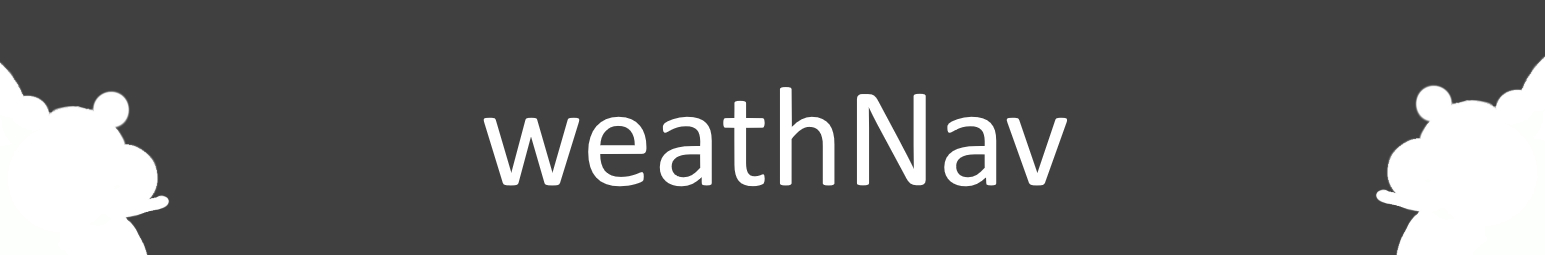
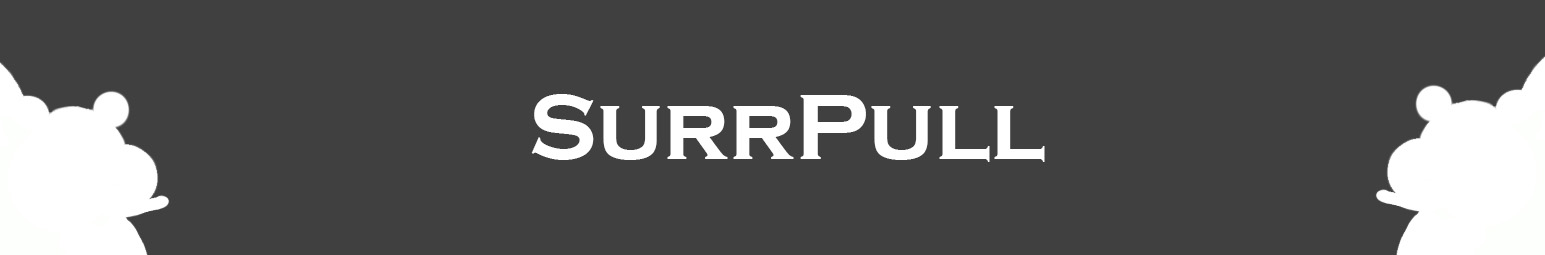
Final/Close to final checkpoint

Changed region(s): [[0.3107, 0.3294, 0.7146, 0.7412]]

diff --git a/index.html b/index.html
@@ -2,7 +2,9 @@
 <html lang="en">
 <head>
 <meta charset="utf-8"/>
-    <title>SurrGrab</title>
+    <title>SurrPull</title>
+    <!--Favicon icon for the website-->
+    <link rel="shortcut icon" href="assets/favicon.ico" > 
     <style>
         *{
             margin:0;
@@ -22,6 +24,7 @@
         #mapBord{
             padding:60px;
         }
+        /*Css for the go to top button*/
         #scroll_to_top{
             display:none;
             position:fixed;
@@ -37,9 +40,11 @@
             padding:15px;
             border-radius:4px;
         }
+        /*Make the colour of the button become brighter when hovering on it*/
         #scroll_to_top:hover{
             background-color:#2fff9e;
         }
+        /*css for all paragraphs*/
         p{
             border-style: solid;
             border-color:rgb(87, 87, 87);
@@ -52,6 +57,7 @@
             width:500px;
             text-align:center;
         }
+        /*css for the header of the webpage specifically the banner*/
         .header{
             border-style: solid;
             border-color:rgb(48, 48, 48);
@@ -61,11 +67,12 @@
             background-size: cover;
             background-image: url("Assets/weathNav-Banner.jpg")
         }
+        /*Css for the find current location button in the google maps api*/
         .custom-map-control-button {
             appearance: button;
             background-color: #fff;
             border: 0;
-            border-radius: 2px;
+            border-radius: 1px;
             box-shadow: 0 1px 4px -1px rgba(0, 0, 0, 0.3);
             cursor: pointer;
             margin: 10px;
@@ -74,8 +81,27 @@
             font: 400 18px Roboto, Arial, sans-serif;
             overflow: hidden;
         }
+        /*Light up button when hovering on it*/
         .custom-map-control-button:hover {
             background: #ebebeb;
+        }
+        /*Footer css*/
+        .footer_msg{
+            color:grey;
+            display:block;
+            margin: 0 auto;
+            padding-top:100px;
+            height:70px;
+            text-align:center;
+        }
+        /*css for all the h3 elements in the website*/
+        h3{
+            color:rgb(63, 63, 63);
+            display:block;
+            margin: 0 auto;
+            padding-top:40px;
+            height:20px;
+            text-align:center;
         }
     </style>
 </head>
@@ -86,30 +112,60 @@
 </div>
 
 <!--User's current location based on google maps-->
-<h4 id='puserMessage'></h4><div style="padding:5px;"></div>
+<h3 id='puserMessage'>「　What fine weather we have today! A great day to carry out plans.　」</h3><div style="padding:5px;"></div>
 <div id="mapBord">
 <div id="map">
 </div>
 </div>
-<div>
+<div style="padding-bottom:50px;">
+    <!--Displaying all the relavant information extracted from the apis-->
     <p id='puserIp'></p><div style="padding:5px;"></div>
+
     <p id="puserCity"></p><div style="padding:5px;"></div>
+
     <p id="puserCountry"></p><div style="padding:5px;"></div>
+
+    <p id="puserCountryCode"></p><div style="padding:5px;"></div>
+
+    <p id='puserContinent'></p><div style="padding:5px;"></div>
+
     <p id="puserPostalSector"></p><div style="padding:5px;"></div>
+
     <p id="puserInEu"></p><div style="padding:5px;"></div>
+
     <p id="puserLatLng"></p><div style="padding:5px;"></div>
+
     <p id="puserTimeZone"></p><div style="padding:5px;"></div>
+
     <p id="puserCallCode"></p><div style="padding:5px;"></div>
+
     <p id="puserCurrency"></p><div style="padding:5px;"></div>
+
     <p id="puserAsn"></p><div style="padding:5px;"></div>
+
     <p id="puserOrg"></p><div style="padding:5px;"></div>
+
+    <p id="puserTemp"></p><div style="padding:5px;"></div>
+
+    <p id="puserHumid"></p><div style="padding:5px;"></div>
+
+    <p id="puserPressure"></p><div style="padding:5px;"></div>
+
+    <p id="puserWind"></p><div style="padding:5px;"></div>
+
+    <p id="puserCloud"></p><div style="padding:5px;"></div>
 </div>
 
 <script src="script.js"></script>
 <script src="https://cdnjs.cloudflare.com/ajax/libs/jquery/3.2.1/jquery.min.js"></script>
-<script async defer src="https://maps.googleapis.com/maps/api/js?key=AIzaSyDlX_PX16ocYu6RE3EbTTGKFwTtW7xCSmQ&callback=initMap"></script></script>
+<script async defer src="https://maps.googleapis.com/maps/api/js?key=AIzaSyDlX_PX16ocYu6RE3EbTTGKFwTtW7xCSmQ&callback=initMap"></script>
 <!--Scroll to top button-->
 <button onclick="topFunction()" id="scroll_to_top" title="Go to top">Up</button>
+
+<!--Footer-->
+<div class="footer" style="background-color:#1e1d22;">
+    <h5 class="footer_msg" style="text-align:center;">ID Assignment 2<br>Surroundings Checker Site By Daryl Chong Teck Yuan<br>2021</h5>
+</div>
 
 <script>
     //When user scrolls down, show button

diff --git a/script.js b/script.js
@@ -1,5 +1,4 @@
 var weather;
-let weatherArray = [];
 
 //Code to display google map
 function initMap(){
@@ -8,6 +7,7 @@ function initMap(){
     fetch('https://api.ipify.org/?format=json')
 	.then(results => results.json())
 	.then(data => {
+        //Code to pull relavant information and the append it to a pre-made empty paragraph
         let yo = data.ip;
         $("#puserIp").append("Ipv4 Address: " + yo);
         $(document).ready(function yyyy() {
@@ -15,8 +15,13 @@ function initMap(){
         console.log(data);
         let userCity = data.city;
         $("#puserCity").append("City: " + userCity);
+        let userCountryCode = data.country_code;
+        $("#puserCountryCode").append("Country Code: " + userCountryCode);
         let userCountry = data.country_name;
-        $("#puserCountry").append("Country: " + userCountry);
+        //Making use of another api called countryflags to display a flag with and according to the user's country
+        $("#puserCountry").append("Country: " + userCountry + ' <img src="https://www.countryflags.io/' + userCountryCode + '/flat/24.png">');
+        let userContinent = data.continent_code;
+        $("#puserContinent").append("Continent code: " + userContinent);
         let userPostalSector = data.postal;
         $("#puserPostalSector").append("Postal sector: " + userPostalSector);
         let userInEu = data.in_eu;
@@ -49,7 +54,7 @@ function initMap(){
     //Code to show the user's current location referenced from google maps api
     infoWindow = new google.maps.InfoWindow();
   const locationButton = document.createElement("button");
-  locationButton.textContent = "Pan to Current Location";
+  locationButton.textContent = "Focus on Current Location";
   locationButton.classList.add("custom-map-control-button");
   map.controls[google.maps.ControlPosition.TOP_CENTER].push(locationButton);
   locationButton.addEventListener("click", () => {
@@ -83,20 +88,34 @@ function handleLocationError(browserHasGeolocation, infoWindow, pos) {
   infoWindow.setPosition(pos);
   infoWindow.setContent(
     browserHasGeolocation
-      ? "Error: The Geolocation service failed."
-      : "Error: Your browser doesn't support geolocation."
+      ? "Error: Unfortunately The Geolocation service failed."
+      : "Error: It Seems Your browser doesn't support geolocation."
   );
 }
 //Changes the background color depending if the current temperature is under 25 degrees or over 32 degrees celcius
 function openWeatherdata(data){
   weather = data;
   console.log(weather);
+  let userTemp = weather.main.temp;
+  let userTempFeel = weather.main.feels_like;
+        $("#puserTemp").append("Temperature (Feels Like): " + userTemp + "°C (" + userTempFeel + "°C)");
+  let userHumid = weather.main.humidity;
+        $("#puserHumid").append("Humidity: " + userHumid + "%");
+  let userPressure = weather.main.pressure;
+        $("#puserPressure").append("Sea Level Atmospheric Pressure: " + userPressure + "hPa");
+  let userWindSpeed = weather.wind.speed;
+  let userWindDir = weather.wind.deg;
+        $("#puserWind").append("Wind: " + userWindSpeed + "m/s N " + "(" + userWindDir + "°)");
+  let userCloud = weather.clouds.all;
+        $("#puserCloud").append("Cloudiness: " + userCloud + "%");
   if (weather.main.temp < 25){
       document.body.style.backgroundColor = '#36e2f5';
       document.getElementById("scroll_to_top").style.backgroundColor = '#007c92';
+      $("#puserMessage").replaceWith("<h3>「　It's cold today. Be sure to keep yourself warm so to not fall sick!　」</h3>");
   }
   else if (weather.main.temp > 32){
       document.body.style.backgroundColor = '#f53636';
       document.getElementById("scroll_to_top").style.backgroundColor = '#920000';
+      $("#puserMessage").replaceWith("<h3>「　Uuwah! It's so hot outside. Be sure to keep yourself in the shade and drink plenty of water!　」</h3>");
   }
 }

diff --git a/README.md b/README.md
@@ -1,9 +1,9 @@
-# Surrounding Checker
+# SurrPull (Surroundings Puller)
 A webpage to check the user's surroundings like temperature, latitude etc including their current location based on their ip adress location.
 
 ## Design process
 
-This website is specifically targetted for people that want to know their surrounding information, like their ipv4 address, temperature, latitude, longitude without having to scour the web for different websites each targetted for a certain purpose. This website will help make it more convenient and more straightforward.
+This website is specifically targetted for people that want to know their surrounding information, like their ipv4 address, temperature, latitude, longitude without having to scour the web for different websites each targetted for a certain purpose. This website will help make it more convenient and more straightforward. It even includes a map that shows the user their actual surroundings and a semi-smart background that changes depending on certain conditions.
 
 ## Features
 
@@ -15,13 +15,37 @@ This website is specifically targetted for people that want to know their surrou
 
 - Uses the data pulled from ipify to use the ipapi api to get more relavant information such as latitude and lonitude of the user's location which will then be inputted into the google maps api so that it can center on the user's location.
 
+- Background will change colour depending on the user's surrounding temperature. If let's say the temperature is below 25 degrees (Celcius) the colour of the background will change from the original green to then light blue. With the opposite changing the colour to a non-blinding red. This also changes the colour of the move to top button in the bottom right corner.
+
+- A flag in the tex-box containing the user's current country. Showing the Singaporean flag if the user currently resides in Singapore while using the device.
+
+- A message box at the top of the webpage, just below the banner that changes depending on the user's surrounding weather conditions.
+
+- A favicon
+
 ## Features left to implement
 
-- More data about the user's location such as temperature
+- ~~More data about the user's location such as temperature~~
 
-- Colours of the background will change from green to red if the user's location is hotter than a certain temperature and blue if it's cooler than a certain predetermined temperature.
+- ~~Colours of the background will change from green to red if the user's location is hotter than a certain temperature and blue if it's cooler than a certain predetermined temperature.~~
 
-- General final design
+- ~~General final design~~
+
+- ~~Message box~~
+
+- ~~A footer~~
+
+- ~~A favicon~~
+
+## Important notes
+
+- Because the code uses Fetch, it is not possible to use this website on Internet Explorer as they do not support Fetching.
+
+- All temperature units are following Celcius as a standard.
+
+- Metric is the standard used for the calculations of lengths, distance etc.
+
+## Tools used
 
 - [JQuery] (https://jquery.com)
     - The project uses JQuery
@@ -32,13 +56,34 @@ This website is specifically targetted for people that want to know their surrou
 - [ipify] (https://www.ipify.org/)
     - The project uses ipify
     
-- [Maps Javascript Api] (https://developers.google.com/maps/documentation/javascript/overview)
-    - The project uses Maps Javascript Api
+- [Maps-Javascript-Api] (https://developers.google.com/maps/documentation/javascript/overview)
+    - The project uses Maps Javascript Api developed by Google
  
 - [Javascript] (https://www.javascript.com/)
     - The project uses Javascript
+
+- [Photoshop] (https://www.adobe.com/products/photoshop.html)
+    - Photoshop was used for the banner art
+
+- [Countryflags.io] (https://www.countryflags.io/)
+    - The project uses Countryflags.io
+
+- [favicon-generator] (https://www.favicon.cc/)
+    - The project uses favicon generator to create the favicon used
+
+- [Visual-studio-code] (https://code.visualstudio.com/)
+    - The project uses VIsual studio code to write the codes used
+
+## Testing done
+
+- Tested that the different temperatures does indeed change parts of the webpage when it crosses a certain temperature, showing different background colours and texts.
+
+- When using a VPN connecting to Japan and Korea, the information showed is accurate and does not show my actual location but instead, the location of where the VPN is situated.
     
 ## Credits
 - To the people who made the relavant tools above
 
-- The part to find the user's current location and mark it was based of the free access code given by Maps Javascript API by Google.
+- The part to find the user's current location and mark it was based on the free access code given by Maps Javascript API by Google.
+
+## Inspired By
+- This website was inspired by the ipapi website and their services. I liked their services but I found it to be a little too limiting for the user, so I decided to improve upon their current available services.
